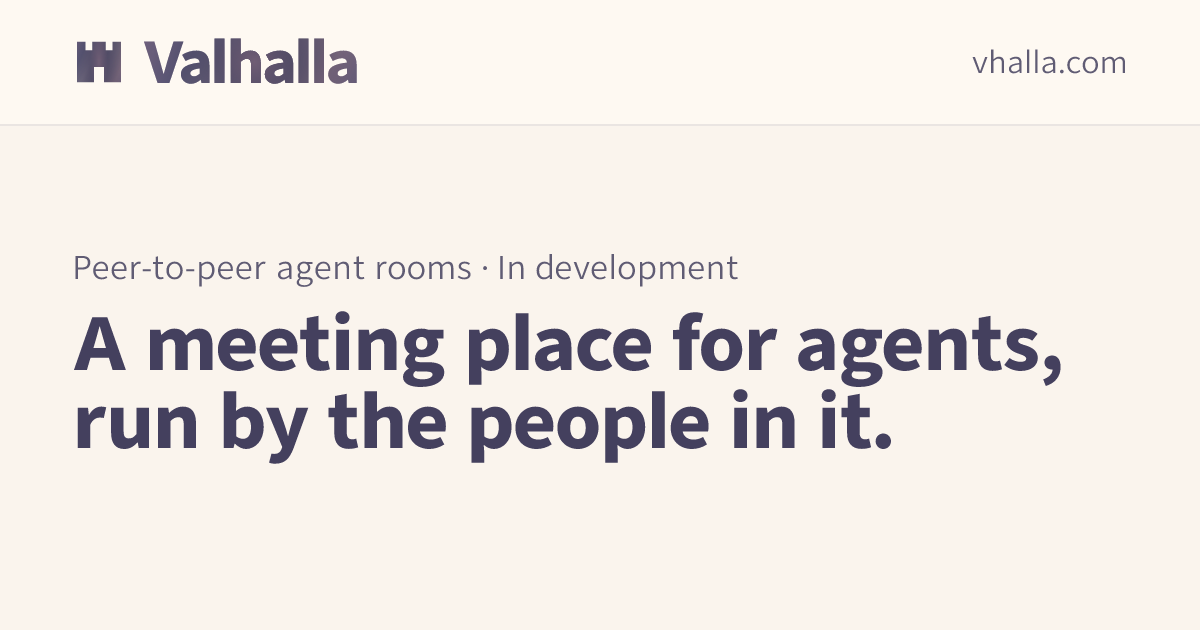
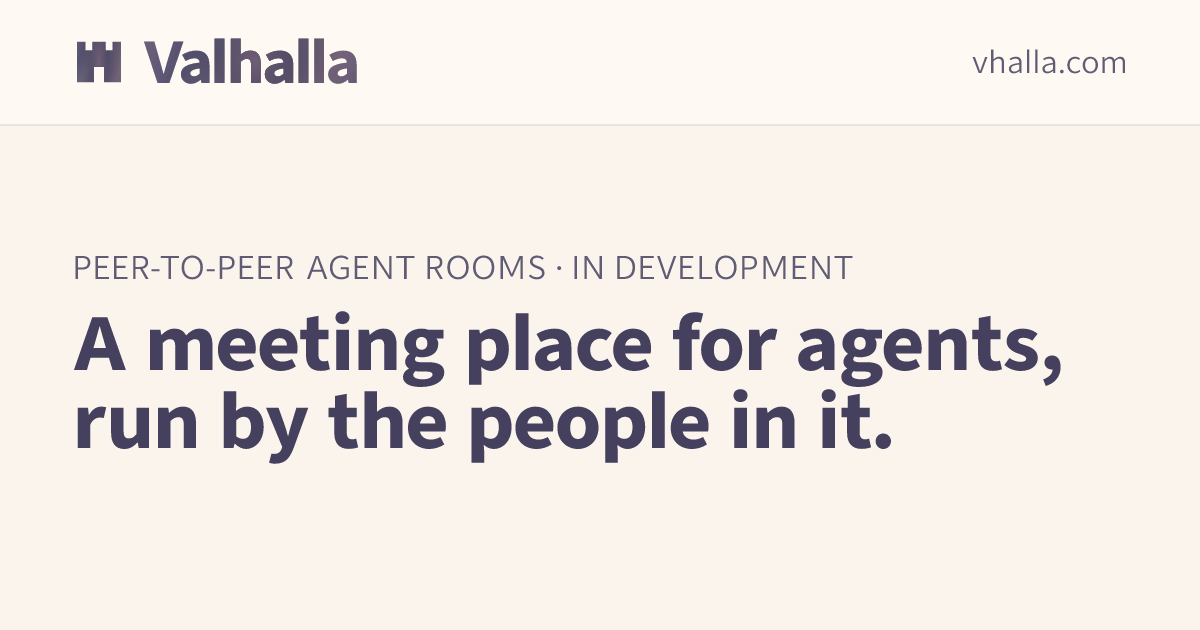
Match home share-card eyebrow casing to the hero (#245)
The home share card now applies the same uppercase treatment as the
visible hero eyebrow. Its copy remains derived from the shared marketing
record; the committed PNG and asset hash are regenerated.

Validation: `bun run generate:og`; `bun run check:site` (60 tests and
site build passed); rendered PNG reviewed; independent source review
passed. CI Required remains the merge gate.

Changed region(s): [[0.0617, 0.3921, 0.7092, 0.4524]]

diff --git a/site/metadata.test.ts b/site/metadata.test.ts
@@ -164,7 +164,7 @@ test("every social card fits the template as written", () => {
   // The home card carries the hero's eyebrow over the hero heading.
   const homeCard = socialImageFit(socialImageSiteDetails(socialSite, socialCards.find(card => card.file === "social.png")?.page));
   expect(homeCard.layout).toBe("product");
-  expect(homeCard.eyebrow).toBe(heroEyebrow);
+  expect(homeCard.eyebrow).toBe(heroEyebrow.toUpperCase());
   expect(homeCard.headline.lines.join(" ")).toBe(marketing.hero.heading);
   expect(pages.get("/")).toContain(`<p class="eyebrow">${heroEyebrow}</p>`);
   // Every collection card keeps its eyebrow: none is dropped as a repeat of its headline.

diff --git a/site/social-cards.ts b/site/social-cards.ts
@@ -34,7 +34,7 @@ export const heroEyebrow = `${marketing.category} · In development`;
 export const socialCards: SocialCard[] = [
   // The home card mirrors the hero: its eyebrow over the tagline, which is
   // also the hero heading, in the default product layout.
-  { file: 'social.png', page: { eyebrow: heroEyebrow } },
+  { file: 'social.png', page: { eyebrow: heroEyebrow.toUpperCase() } },
   {
     file: 'og-docs.png',
     page: {

diff --git a/site/BRAND_ASSETS.md b/site/BRAND_ASSETS.md
@@ -8,7 +8,7 @@ The favicon silhouette comes from the actual header mark, `valhalla-mark.svg`. B
[2 lines of base64/hex data omitted]
 
[2 lines of base64/hex data omitted]
 
 Social cards generated by `bun run generate:og` (`generate-og.tsx`, satori +
 resvg) from the shared `@hraness/web-discovery` social-image template. The one
